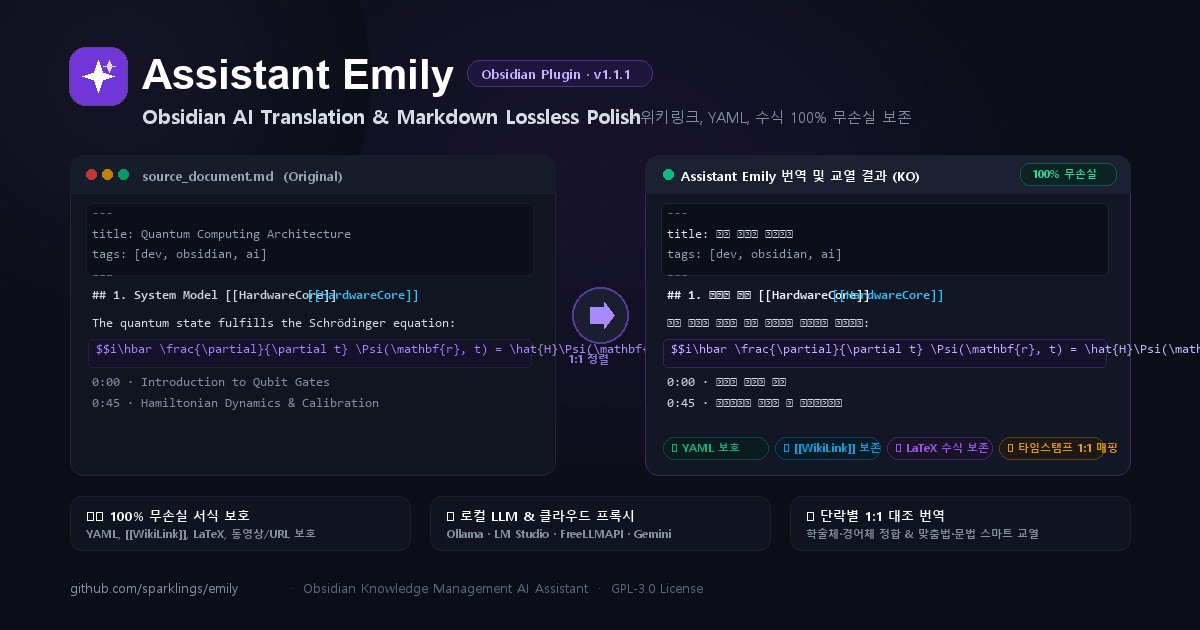
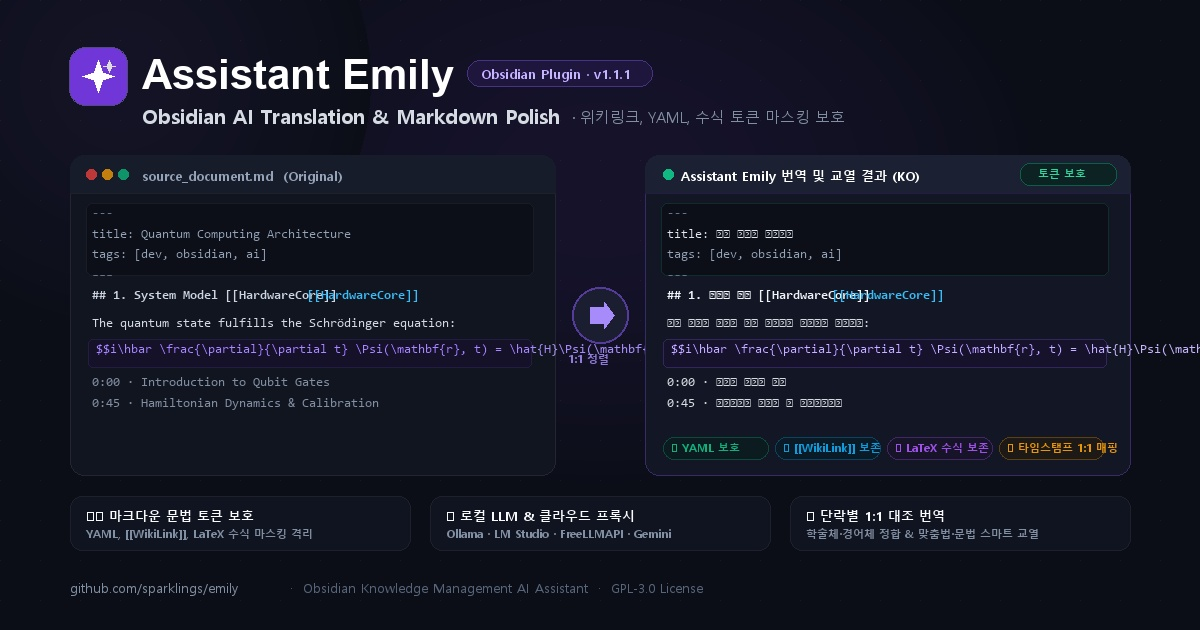
docs: eliminate exaggerated claims and ground descriptions in technical architecture

Changed region(s): [[0.4317, 0.1508, 0.74, 0.2111], [0.0925, 0.8143, 0.2775, 0.8746], [0.8633, 0.2714, 0.925, 0.3016]]

diff --git a/docs/index.html b/docs/index.html
@@ -68,7 +68,7 @@
         "@type": "SoftwareApplication",
         "@id": "https://sparklings.github.io/emily/#software",
         "name": "Assistant Emily - 옵시디언 번역 & AI 서식 보존 교열 플러그인",
-        "alternateName": "Obsidian Translation & Lossless Proofreading Plugin",
+        "alternateName": "Obsidian Translation & Markdown Proofreading Plugin",
         "operatingSystem": "Windows, macOS, Linux (Desktop Only)",
         "applicationCategory": "ProductivityApplication",
         "applicationSubCategory": "TextEditorPlugin",
@@ -125,7 +125,7 @@
         "@id": "https://sparklings.github.io/emily/#website",
         "url": "https://sparklings.github.io/emily/",
         "name": "Assistant Emily - 옵시디언 번역 공식 홈페이지",
-        "description": "옵시디언 번역 및 지능형 마크다운 무손실 교열 플러그인 Assistant Emily의 공식 웹사이트입니다."
+        "description": "옵시디언 번역 및 지능형 마크다운 서식 보존 교열 플러그인 Assistant Emily의 공식 웹사이트입니다."
       },
       {
         "@type": "BreadcrumbList",
@@ -451,7 +451,7 @@ updated: 2026-09-14
           <div class="feature-icon">🛡</div>
           <h3 class="feature-title">OFM 서식 보존 및 자가 치유 정규화</h3>
           <p class="feature-desc">
-            YAML 프론트매터, <code>[[위키링크]]</code>, <code>#태그</code>, LaTeX 수식(<code>$...$</code>), 콜아웃(<code>&gt; [!note]</code>), 코드 블록, 형광펜(<code>==단어==</code>), 태스크(<code>- [ ]</code>)를 UUID 토큰으로 완벽 보존하며, 헤딩 전후 개행 보정 및 콜아웃 부호 연속성을 자가 치유합니다.
+            YAML 프론트매터, <code>[[위키링크]]</code>, <code>#태그</code>, LaTeX 수식(<code>$...$</code>), 콜아웃(<code>&gt; [!note]</code>), 코드 블록, 형광펜(<code>==단어==</code>), 태스크(<code>- [ ]</code>)를 UUID 토큰으로 마스킹 보호하며, 헤딩 전후 개행 보정 및 콜아웃 부호 연속성을 자가 치유합니다.
           </p>
         </article>
 

diff --git a/scripts/generate_og_image.py b/scripts/generate_og_image.py
@@ -94,8 +94,8 @@ def create_og_image():
     draw.text((badge_x + 14, badge_y + 4), "Obsidian Plugin · v1.1.1", font=font_tag, fill=(196, 181, 253, 255))
 
     # Subtitle Line
-    draw.text((title_x, top_y + 54), "Obsidian AI Translation & Markdown Lossless Polish", font=font_sub_en, fill=(226, 232, 240, 240))
-    draw.text((title_x + 490, top_y + 58), "· 위키링크, YAML, 수식 100% 무손실 보존", font=font_sub_ko, fill=(148, 163, 184, 220))
+    draw.text((title_x, top_y + 54), "Obsidian AI Translation & Markdown Polish", font=font_sub_en, fill=(226, 232, 240, 240))
+    draw.text((title_x + 430, top_y + 58), "· 위키링크, YAML, 수식 토큰 마스킹 보호", font=font_sub_ko, fill=(148, 163, 184, 220))
 
     # =========================================================================
     # Central Comparison Mockup Cards (Original vs Emily Output)
@@ -182,9 +182,9 @@ def create_og_image():
     draw.ellipse([card_r_x + 18, card_top + 14, card_r_x + 28, card_top + 24], fill=(16, 185, 129, 255))
     draw.text((card_r_x + 36, card_top + 11), "Assistant Emily 번역 및 교열 결과 (KO)", font=font_card_head, fill=(255, 255, 255, 255))
     
-    # "Lossless" badge in top right of card
+    # "Token Protected" badge in top right of card
     draw.rounded_rectangle([card_r_x + card_w - 110, card_top + 8, card_r_x + card_w - 14, card_top + 30], radius=10, fill=(16, 185, 129, 30), outline=(16, 185, 129, 120), width=1)
-    draw.text((card_r_x + card_w - 98, card_top + 11), "100% 무손실", font=font_chip, fill=(52, 211, 153, 255))
+    draw.text((card_r_x + card_w - 92, card_top + 11), "토큰 보호", font=font_chip, fill=(52, 211, 153, 255))
 
     # Right Card Content
     rx = card_r_x + 22
@@ -239,7 +239,7 @@ def create_og_image():
     start_pill_x = 70
 
     pill_data = [
-        ("🛡 100% 무손실 서식 보호", "YAML, [[WikiLink]], LaTeX, 동영상/URL 보호"),
+        ("🛡 마크다운 문법 토큰 보호", "YAML, [[WikiLink]], LaTeX 수식 마스킹 격리"),
         ("⚡ 로컬 LLM & 클라우드 프록시", "Ollama · LM Studio · FreeLLMAPI · Gemini"),
         ("🌐 단락별 1:1 대조 번역", "학술체·경어체 정합 & 맞춤법·문법 스마트 교열")
     ]

diff --git a/README.md b/README.md
@@ -1,25 +1,25 @@
 # Assistant Emily
 
-> Intelligent Lossless Markdown Proofreading, Context-Aware AI Translation, and Obsidian-Flavored Markdown (OFM) Autonomous Pair-Assistant for Desktop Obsidian.
+> Intelligent Markdown Proofreading, Context-Aware AI Translation, and Obsidian-Flavored Markdown (OFM) Autonomous Pair-Assistant for Desktop Obsidian.
 
 The formal project name is **Assistant Emily**, and the Obsidian Community Plugin registration identifier is strictly lowercase `assistant-emily`.
 
-`assistant-emily` is an enterprise-grade AI pair-assistant plugin engineered for researchers, technical authors, and knowledge workers in Obsidian desktop environments. Built on a proprietary **Syntax Masking Pipeline**, it guarantees 100% lossless preservation of internal WikiLinks, hashtags, LaTeX formulas, callouts, and code blocks, while delivering context-aware AI translation and precision proofreading.
+`assistant-emily` is an enterprise-grade AI pair-assistant plugin engineered for researchers, technical authors, and knowledge workers in Obsidian desktop environments. Built on an explicit **Syntax Masking Pipeline**, it protects internal WikiLinks, hashtags, LaTeX formulas, callouts, and code blocks by isolating syntax tokens into placeholders prior to LLM processing, while delivering context-aware AI translation and proofreading.
 
 [![License: MIT](https://img.shields.io/badge/License-MIT-yellow.svg)](LICENSE)
 [![Platform: Desktop Only](https://img.shields.io/badge/Platform-Desktop%20Only-orange.svg)]()
 [![Obsidian: v1.7.2+](https://img.shields.io/badge/Obsidian-v1.7.2%2B-purple.svg)](https://obsidian.md)
 [![Version: v1.1.0](https://img.shields.io/badge/Version-v1.1.1-green.svg)](CHANGELOG.md)
 [![TypeScript: Strict Mode](https://img.shields.io/badge/TypeScript-Strict%20Mode-blue.svg)]()
-[![Privacy: 100% Local/Direct](https://img.shields.io/badge/Privacy-100%25%20Local%2FDirect-success.svg)](SECURITY.md)
+[![Privacy: Direct Connection](https://img.shields.io/badge/Privacy-Direct%20Connection-success.svg)](SECURITY.md)
 
 ---
 
 ## Key Features
 
-* **100% Lossless Markdown & OFM Syntax Masking**: Internal WikiLinks (`[[Note]]`), hashtags (`#tag`), LaTeX math (`$...$`), callouts (`> [!note]`), and table-of-contents timestamps (`TOCTIME`) are locked into immutable UUID tokens, guaranteeing zero syntax degradation by LLMs.
+* **Markdown & OFM Syntax Token Masking**: Internal WikiLinks (`[[Note]]`), hashtags (`#tag`), LaTeX math (`$...$`), callouts (`> [!note]`), and chapter timestamps (`TOCTIME`) are isolated into dedicated placeholders prior to LLM processing to protect document structure and links.
 * **Context-Aware Professional Translation & Tone Alignment**: Supports Full Document Translation (default), Selection-Scoped Translation, and Paragraph Bilingual Parallel Alignment (1:1 sentence comparison) with consistent tone rewrites (Academic, Polite, Friendly).
-* **Video Clipping Note Partitioning & 1,800-Character Smart Chunking**: Retains Pre-Transcript metadata (video embeds, timestamps, contact lists) with 100% original line breaks intact; only strips timestamps in subtitle transcripts and reflows fragmented speech into coherent paragraphs.
+* **Video Clipping Note Partitioning & 1,800-Character Smart Chunking**: Retains Pre-Transcript metadata (video embeds, timestamps, contact lists) with original line breaks intact; only strips timestamps in subtitle transcripts and reflows fragmented speech into coherent paragraphs.
 * **Device-Profile Provider Management**: Isolates endpoints and models (Ollama, LM Studio, FreeLLMAPI, OpenRouter, OpenAI) per machine UUID to eliminate cloud vault (OneDrive, iCloud, Obsidian Sync) configuration collisions.
 
 ---
@@ -31,7 +31,7 @@ This project provides exhaustive technical documentation organized by domain and
 | Domain / Architecture | Target File | Core Contents & Link |
 | :--- | :--- | :--- |
 | **System Architecture** | `src/core/*`<br>`src/api/*` | [System Architecture & Pipeline Specification](docs/architecture.md)<br>UI Sidecar layer, component data flow, single-responsibility principle |
-| **Lossless Syntax Masking** | `src/core/markdownMasker.ts` | [Lossless Markdown & OFM Masking Technical Guide](docs/syntax-masking-pipeline.md)<br>10-element UUID token taxonomy, TOCTIME chapter locking, OFM self-healing |
+| **Syntax Token Masking** | `src/core/markdownMasker.ts` | [Markdown & OFM Masking Technical Guide](docs/syntax-masking-pipeline.md)<br>10-element UUID token taxonomy, TOCTIME chapter locking, OFM self-healing |
 | **Video Clipping & Chunking** | `src/core/markdownFormatter.ts`<br>`src/core/translationEngine.ts` | [Video Clipping Partitioning & Smart Chunking Guide](docs/video-clipping-and-chunking-guide.md)<br>Pre-transcript line break preservation, subtitle cleaning, 1,800-char chunking |
 | **Device Profiles & Settings** | `src/ui/settingsTab.ts`<br>`src/api/llmProxyClient.ts` | [Device Profiles & Provider Endpoint Configuration Manual](docs/settings-and-provider-manual.md)<br>4-tab settings layout, device ID binding, Ollama & FreeLLMAPI setup |
 | **FreeLLMAPI Integration** | `docs/freellmapi-guide.md` | [FreeLLMAPI Architecture & Deployment Guide](docs/freellmapi-guide.md)<br>34 free providers, 635 endpoints, ~7.4B tokens/mo, auto failover & self-hosting |
@@ -55,7 +55,7 @@ Open Obsidian **Settings ➔ Assistant Emily ➔ AI Providers** and select your 
 ### 3) Routine Operations
 1. Click the magic wand icon (🪄) on the left ribbon to reveal the **Assistant Emily Sidebar**.
 2. Toggle translation on and select your scope (`Full document`, `Selection only`, `Paragraph bilingual`).
-3. Click **[🚀 Start task]** to execute the pipeline with real-time timeline telemetry and lossless output.
+3. Click **[🚀 Start task]** to execute the pipeline with real-time timeline telemetry and restored markdown output.
 
 ---
 
@@ -118,4 +118,4 @@ Assistant Emily is open-source software licensed under the [MIT License](LICENSE
 
 ## 🇰🇷 한국어 요약 안내 (Korean Summary)
 
-Assistant Emily는 옵시디언 데스크톱 환경에서 위키링크, 태그, 수식, 콜아웃 등 옵시디언 고유 문법을 100% 무손실 보존하며 AI 번역과 교열을 수행하는 플러그인입니다. 상세한 한국어 튜토리얼과 기술 리포트는 [공식 웹사이트](https://sparklings.github.io/emily/) 및 [GitHub Wiki](https://github.com/sparklings/emily/wiki)에서 확인하실 수 있습니다.
+Assistant Emily는 옵시디언 데스크톱 환경에서 위키링크, 태그, 수식, 콜아웃 등 옵시디언 고유 문법 요소를 토큰 마스킹으로 보호하며 AI 번역과 교열을 수행하는 플러그인입니다. 상세한 한국어 튜토리얼과 기술 리포트는 [공식 웹사이트](https://sparklings.github.io/emily/) 및 [GitHub Wiki](https://github.com/sparklings/emily/wiki)에서 확인하실 수 있습니다.

diff --git a/docs/architecture.md b/docs/architecture.md
@@ -56,7 +56,7 @@ flowchart TD
 ## 3. 핵심 서브시스템별 상세 명세
 
 ### 3.1 마크다운 마스커 (`MarkdownMasker`)
-* **역할**: LLM에 전달하기 전, 보호해야 할 마크다운 문법 요소를 안전한 UUID 형태의 토큰(`__EMILY_TOKEN_n__`)으로 치환하고 번역 완료 후 100% 무손실 복원합니다.
+* **역할**: LLM에 전달하기 전, 보호해야 할 마크다운 문법 요소를 안전한 UUID 형태의 토큰(`__EMILY_TOKEN_n__`)으로 치환하고 번역 완료 후 원형 복원합니다.
 * **주요 보호 대상**:
   * YAML 프론트매터 (`--- ... ---`)
   * 옵시디언 위키링크 (`[[Note]]`, `[[Note|Alias]]`)
@@ -71,7 +71,7 @@ flowchart TD
 ### 3.2 포매터 및 정규화 엔진 (`MarkdownFormatter`)
 * **역할**: 마크다운 서식 정제 및 옵시디언 마크다운(OFM) 표준 렌더링 자가 치유를 담당합니다.
 * **구역 분할 정제 (Section Partitioning)**:
-  * 일반 기사/웹 문서는 원형을 100% 보존합니다.
+  * 일반 기사/웹 문서는 원형 레이아웃을 최대한 보존합니다.
   * 유튜브 클리핑 문서는 `## Transcript` 이전 메타데이터(동영상 링크, 목차, `Connect:`) 구역의 줄바꿈을 원형 보존하고, `## Transcript` 이하 본문만 타임스탬프를 제거하여 400~600자 단위 유려한 단락으로 결합합니다.
 * **OFM 자가 치유 (`normalizeObsidianMarkdown`)**:
   * 헤딩(`#`–`######`) 전후 빈 줄 자동 삽입으로 단락 융합 방지.
@@ -114,7 +114,7 @@ sequenceDiagram
         Engine->>Engine: 한글 비율 검증 & 중국어 누출 치환
     end
     Engine->>Formatter: 동영상 임베드 사후 확정 복원
-    Engine->>Masker: 4단계 마스킹 토큰 100% 무손실 복원
+    Engine->>Masker: 4단계 마스킹 토큰 원형 복원
     Masker->>Formatter: 5단계 OFM 자가 치유 정규화
     Formatter->>View: 최종 정제 텍스트 전달
     alt 원본 파일 직접 번역

diff --git a/docs/video-clipping-and-chunking-guide.md b/docs/video-clipping-and-chunking-guide.md
@@ -38,7 +38,7 @@ flowchart TD
     Split --> ScriptSec["(2) 스크립트 본문 구역 (## Transcript 이하)"]
 
     subgraph MetaProcessing ["메타데이터 구역 보존"]
-        Meta1["동영상 임베드 태그 100% 보존"]
+        Meta1["동영상 임베드 태그 보존"]
         Meta2["목차 챕터 시간: '- 0:00 설명' 리스트 보존"]
         Meta3["연락처 (Connect / Email) 원본 줄바꿈 100% 보존"]
     end
